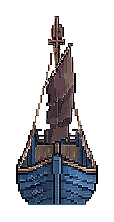
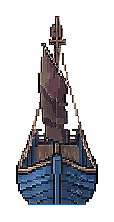
fix(naval): correct enemy transport bow direction

Changed region(s): [[0.1316, 0.0541, 0.8684, 0.9459]]

diff --git a/docs/qa/playtest.md b/docs/qa/playtest.md
@@ -248,6 +248,7 @@
 | 2026-08-20 / naval terrain stamp render 2 | Codex | 河口印章改为与战场一致的低饱和灰青宣纸像素水墨：树冠归并成墨团、河水改为蓝灰、河口用透明横向墨纹接入海面 | PNG Alpha/色域抽查、Godot headless 专项回归、1344×896 Vulkan 实战预览 | 交付用户确认风格后扩展港口、小镇等印章 |
 | 2026-08-22 / enemy ship four-view refresh 1 | Codex | 敌方运输船、护卫舰、旗舰替换为用户四视图素材的东南西北 12 张方向贴图；两张源图的中间甲板俯视列未接入 | 12 张 PNG Alpha/方向比例检查、Godot 资源导入、C# 构建、headless 海战 smoke、四方向总览 | 交付用户试玩 |
 | 2026-08-22 / enemy flagship bow correction 1 | Codex | 对调敌军三格旗舰的东/西与南/北贴图，使画面舰艏和逻辑朝向一致 | 旗舰四方向总览、Godot 方向素材专项测试、headless 海战 smoke | 交付用户复核 |
+| 2026-08-22 / enemy transport bow correction 1 | Codex | 对调敌军一格运输船的东/西与南/北贴图，使画面舰艏和逻辑朝向一致 | 运输船四方向总览、Godot 方向素材专项测试、headless 海战 smoke | 交付用户复核 |
 | 2026-08-22 / player ship four-view refresh 1 | Codex | 我方运输船、护卫舰、商船、旗舰替换为用户四视图素材；禁用第一/第三行俯视图，占格固定为 1/2/2/3 | 16 张 PNG Alpha/方向比例、四方向总览、舰型长度配置、C# 构建、海战 smoke | 交付用户试玩 |
 | 2026-08-22 / exploration HUD upper-body portrait 1 | Codex | 左上主角头像从缩小全身立绘改为放大的冠饰、头部、胸甲至腰部裁切，菱形框和右侧文字位置不变 | UV 裁切断言、Godot headless 与 1344×896 OpenGL 探索 HUD 截图 | 交付用户试玩 |
 

diff --git a/docs/design/art-direction.md b/docs/design/art-direction.md
@@ -85,6 +85,7 @@
 - 2026-08-22 敌舰素材取自用户提供的两张互补四视图：第一张左列作为东向侧视、右列作为南向端视，第二张右列作为西向侧视、左列作为北向端视。两张图的中间木质甲板俯视列全部禁用，不得进入战斗资源。
 - 船型按源图行映射：第一行运输船、第二行护卫舰、第四行旗舰；第三行大型白帆商船暂不对应当前敌舰类型。裁切后保留透明底、原像素配色和完整旗帜/船帆，并适配既有方向画布，使默认镜头下的占格尺寸不突变。
 - 敌军三格旗舰的源图第四行舰艏朝向与前两行相反，运行时须对调该船的东/西侧视和南/北端视，确保方向标签始终指向画面舰艏，不得仅按素材所在列机械映射。
+- 敌军一格运输船同样以画面舰艏为方向判定基准，须对调东/西侧视和南/北端视；护卫舰保持原方向映射。
 
 ## 海战我方舰船四方向素材
 

diff --git a/docs/changes/CHG-20260822-enemy-ship-four-view-refresh.md b/docs/changes/CHG-20260822-enemy-ship-four-view-refresh.md
@@ -44,6 +44,7 @@
 - 用户实机确认敌军三格旗舰的舰艏、舰尾与逻辑朝向相反。
 - 已对调 `enemy_flagship_e/w` 与 `enemy_flagship_n/s` 的贴图内容；仅修正旗舰四方向标签，不改占格、位置、数值或其他船型素材。
 - 重新运行方向素材专项测试与海战场景 smoke，确认四张资源可加载且战斗场景无回归。
+- 用户随后确认敌军一格运输船也存在相同问题；已对调 `enemy_transport_e/w` 与 `enemy_transport_n/s`，护卫舰方向保持不变。
 
 ## 最终核对
 
